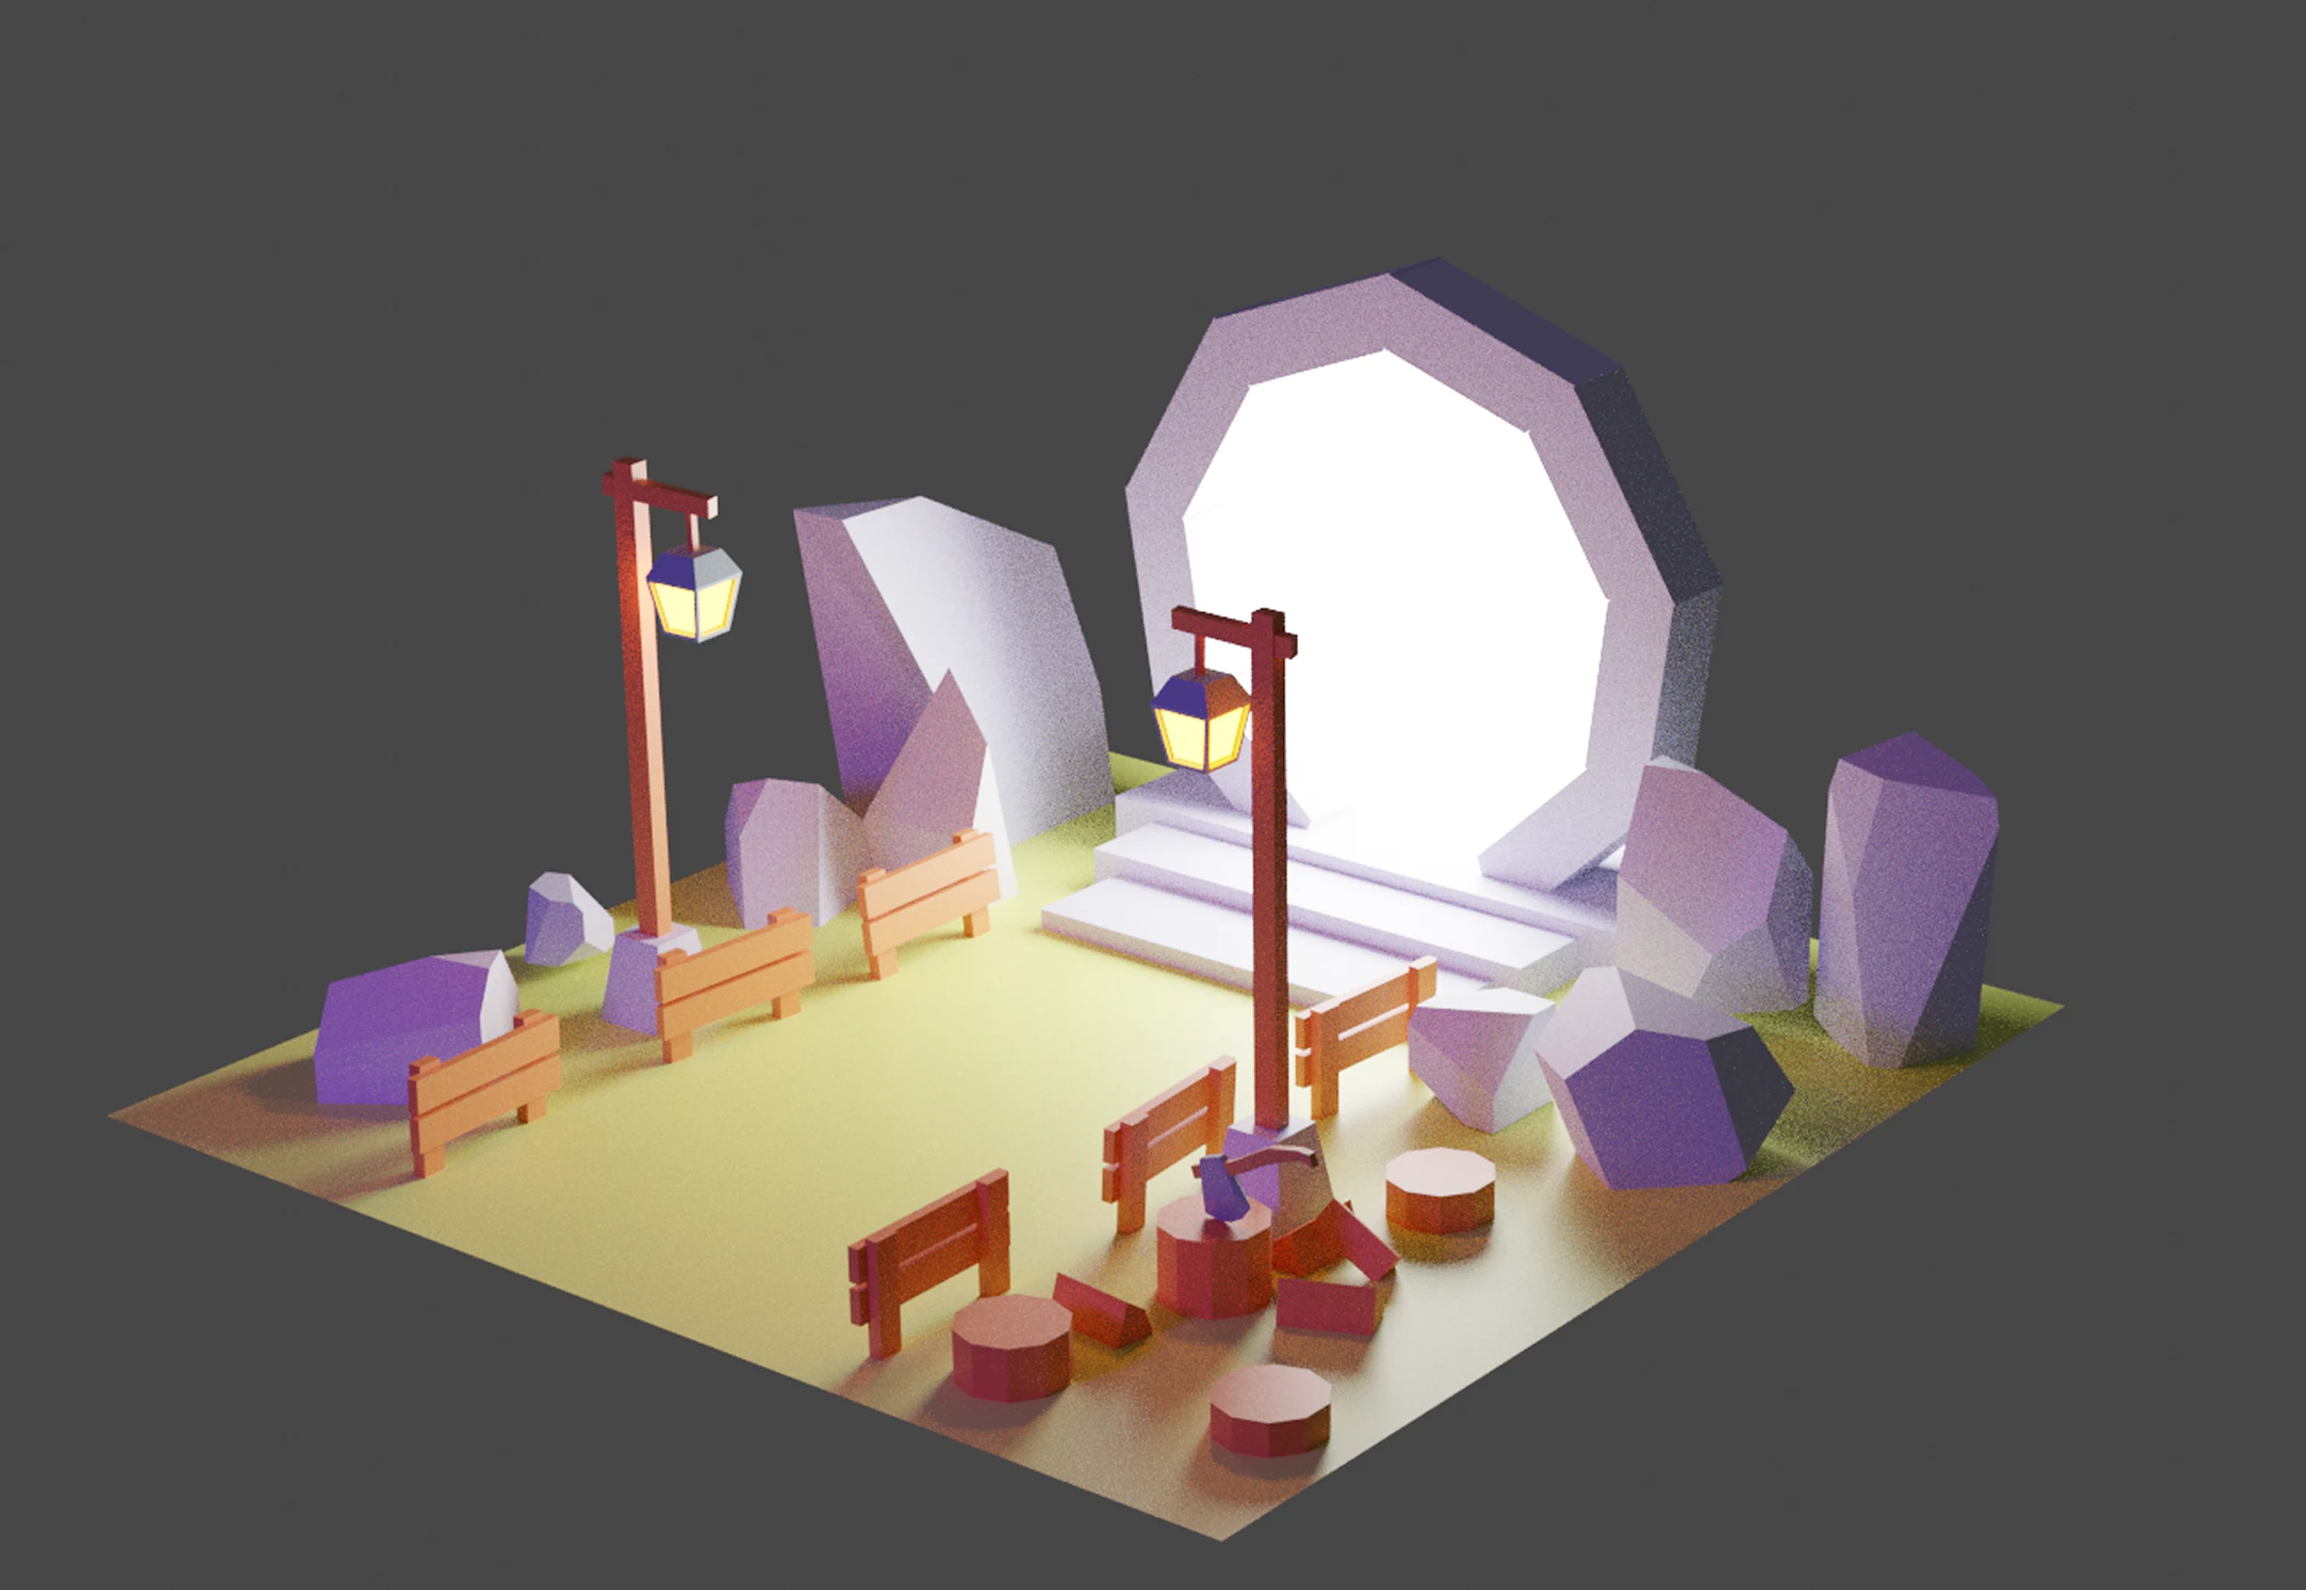
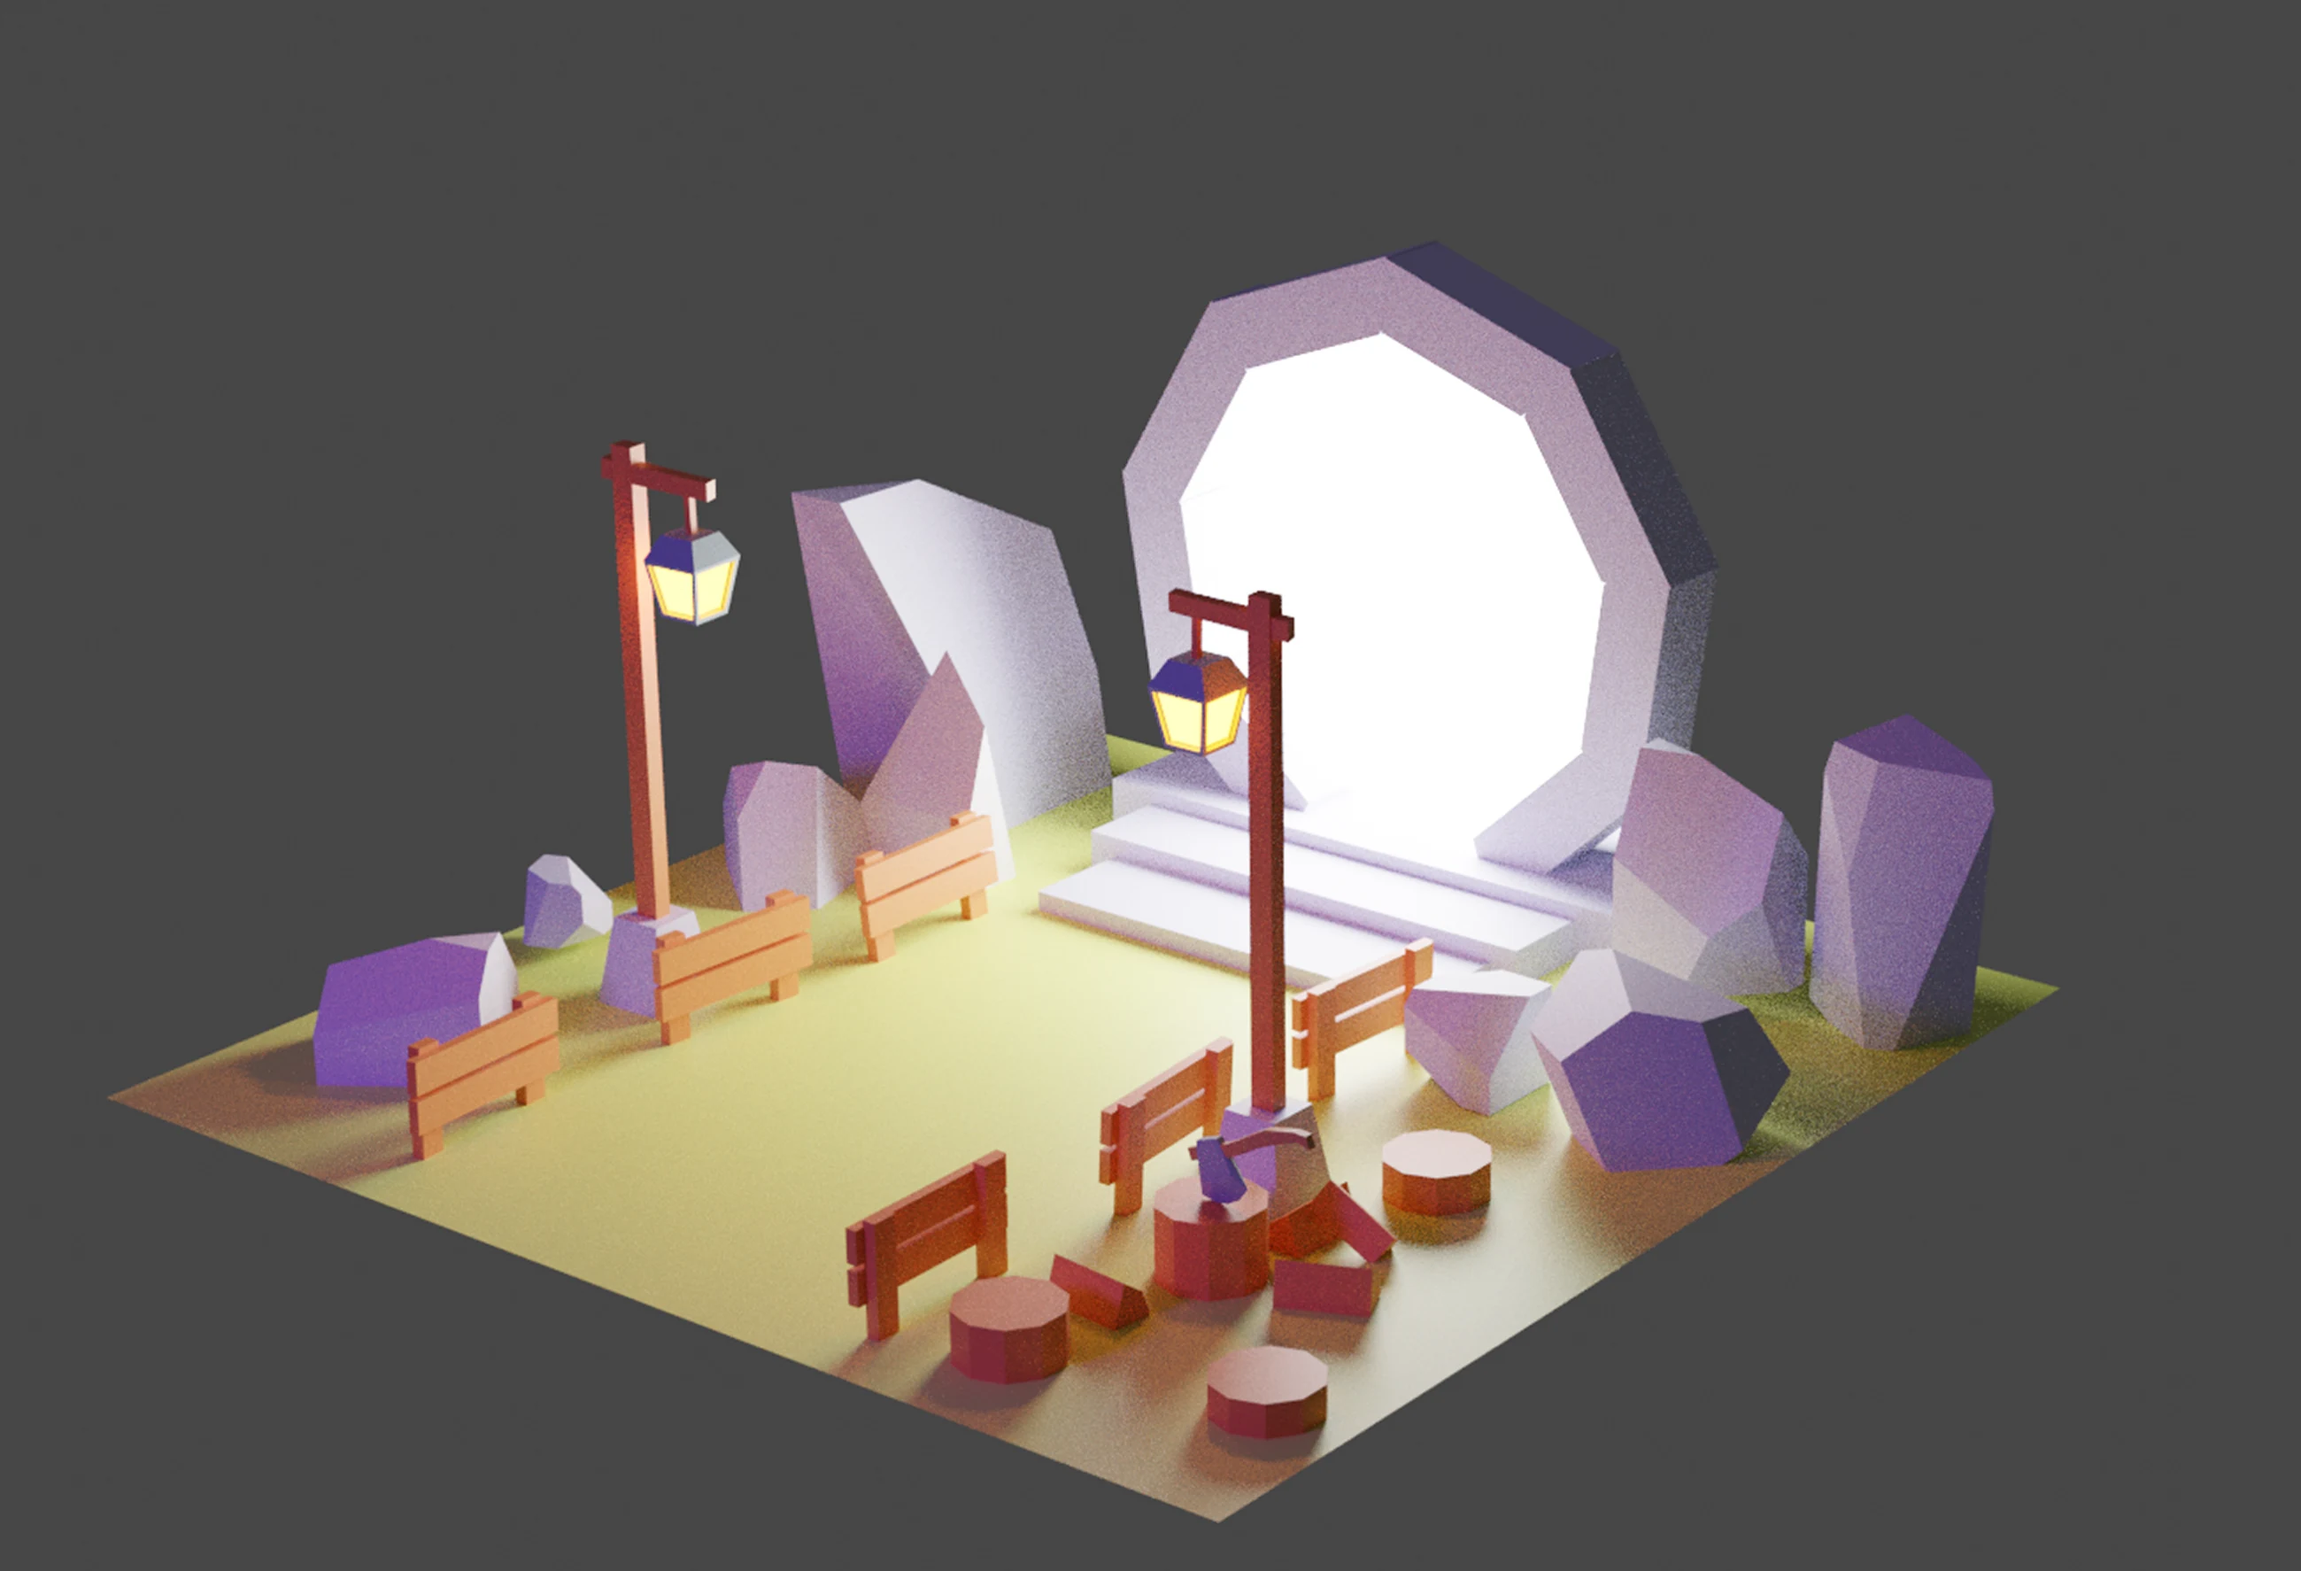
Replace Into the Portal images
Claude-Session: https://claude.ai/code/session_018q6omMkV9ssxuDtC2aGP4K

diff --git a/index.html b/index.html
@@ -189,8 +189,8 @@
         <article class="work work--portal">
           <div class="slider" id="portal-slider" role="group" aria-roledescription="carousel" aria-label="Into the Portal artwork">
             <div class="slider__track">
-              <figure class="slide" role="group" aria-roledescription="slide" aria-label="1 of 2"><a href="https://www.behance.net/gallery/134089025/To-the-Portal" draggable="false" target="_blank" rel="noopener noreferrer" tabindex="-1" aria-label="Into the Portal on Behance (opens in a new tab)"><img src="assets/works/portal-1.webp" alt="Low-poly 3D scene of a glowing stone portal with lanterns, in purple tones" width="1999" height="1379" loading="lazy"></a></figure>
-              <figure class="slide" role="group" aria-roledescription="slide" aria-label="2 of 2" aria-hidden="true"><a href="https://www.behance.net/gallery/134089025/To-the-Portal" draggable="false" target="_blank" rel="noopener noreferrer" tabindex="-1" aria-label="Into the Portal on Behance (opens in a new tab)"><img src="assets/works/portal-2.webp" alt="The same portal scene in warm orange tones" width="1999" height="1379" loading="lazy"></a></figure>
+              <figure class="slide" role="group" aria-roledescription="slide" aria-label="1 of 2"><a href="https://www.behance.net/gallery/134089025/To-the-Portal" draggable="false" target="_blank" rel="noopener noreferrer" tabindex="-1" aria-label="Into the Portal on Behance (opens in a new tab)"><img src="assets/works/portal-1.webp" alt="Low-poly 3D scene of a glowing stone portal with lanterns, in purple tones" width="2600" height="1790" loading="lazy"></a></figure>
+              <figure class="slide" role="group" aria-roledescription="slide" aria-label="2 of 2" aria-hidden="true"><a href="https://www.behance.net/gallery/134089025/To-the-Portal" draggable="false" target="_blank" rel="noopener noreferrer" tabindex="-1" aria-label="Into the Portal on Behance (opens in a new tab)"><img src="assets/works/portal-2.webp" alt="The same portal scene in warm orange tones" width="2600" height="1790" loading="lazy"></a></figure>
             </div>
           </div>
           <div class="work__text"><h3><a href="https://www.behance.net/gallery/134089025/To-the-Portal" target="_blank" rel="noopener noreferrer">Into the Portal</a></h3></div>
